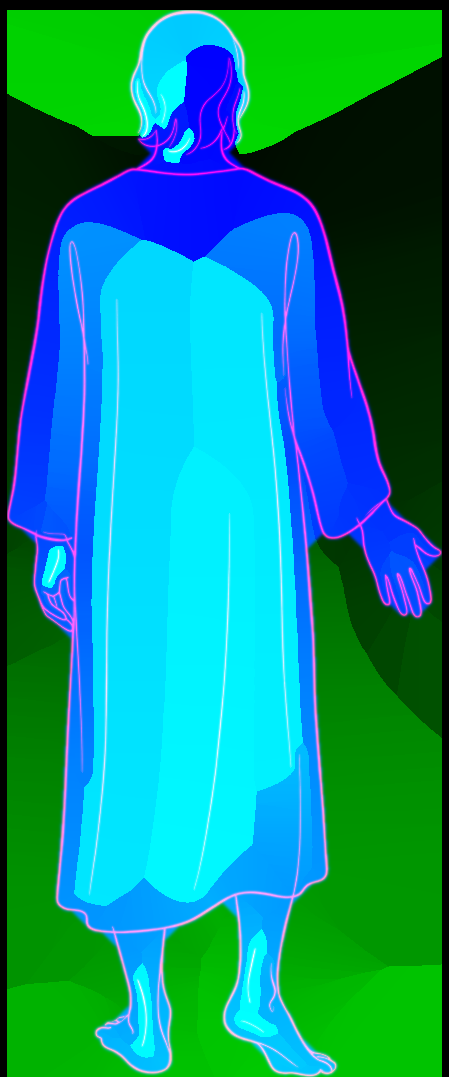
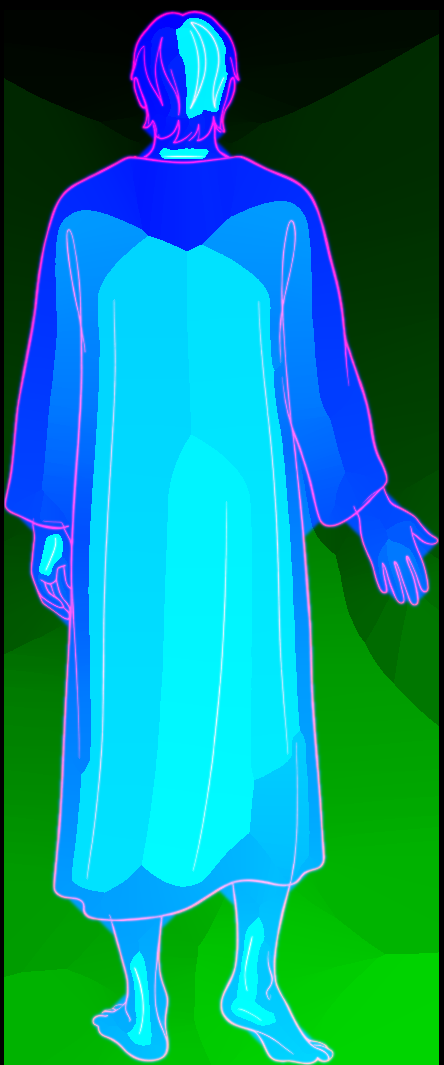
Recap walk: one consistent Jesus; Lesson 27 faces the viewer from far off
Same medium-length hair, build and plain robe, from behind with no face,
wherever he is seen near (L3, 9, 16, 19, 20, 22, 24, 25, 26, 28, 31). L27 has him
small at the top of the steps facing down at you, blank head, approved by Jason.

Claude-Session: https://claude.ai/code/session_01PUXW98g7GeRrNVaktcGhRj

diff --git a/tools/recap-video/places/l27.js b/tools/recap-video/places/l27.js
@@ -1,5 +1,5 @@
 // Lesson 27 (short stop, S = the trickle is a deliberate symbol): on the one day no water was poured, "If anyone is thirsty, come to me."
-// Temple steps. The great pitcher stands upright and nobody touches it, the whole hold. On the key a figure stands above you, hand open (from behind).
+// Temple steps. The great pitcher stands upright and nobody touches it, the whole hold. On the key a figure stands far off at the top, facing down at you, hand open, too small for any face (blank head).
 // Then a thin trickle starts at his feet and comes down the steps toward you. It does not come from the pitcher, which stays dry.
 export default async function (P) {
   await P.loadArt();
@@ -30,7 +30,7 @@ export default async function (P) {
   // the temple: the colonnade from Lesson 30, faint, standing along the top of the stair behind him
   const COLH = 1.3, colonnade = P.art('colonnade', CX, PZ - 0.04, COLH, { y0: TOP - 0.03, drawn: true, turn: false, fog: false, sil: 1, gain: 0.85, fadeNear: false });
   const CW = colonnade.wU, colBack = P.thing(CX, PZ - 0.06, CW * 0.97, COLH * 0.95, 20, c => { c.fillStyle = '#0c0a08'; c.fillRect(0, 0, c.canvas.width, c.canvas.height); }, { y0: TOP, turn: false, far: 26, near: 7 });   // so the far hills don't show through the columns
-  const FIGH = 1.52, figure = P.artAt('figure', CX + 0.02, PZ + 0.03, FIGH, key, 2, { y0: TOP - 0.04, turn: false, gain: 1.6, sil: 1, fadeNear: false });
+  const FIGH = 0.84, figure = P.artAt('figure', CX + 0.02, PZ + 0.03, FIGH, key, 2, { y0: TOP - 0.04, turn: false, gain: 1.6, sil: 1, fadeNear: false });
   // the trickle's course: starts just in front of his feet, eases right a little on each tread, drops straight down each riser; corners rounded so it reads as water, not a crack.
   const raw = [], END = 0.3, xAt = i => lerp(0.04, END, i / N) + 0.035 * Math.sin(i * 2.4); raw.push([xAt(0), TOP - 0.05]);
   ys.forEach((y, i) => { if (i === 0) return; const g = ys[i - 1] - y; raw.push([xAt(i - 1), ys[i - 1]], [xAt(i - 1), ys[i - 1] - g * RISE], [xAt(i), y]); }); raw.push([xAt(N - 1), ys[N - 1]], [xAt(N - 1), ys[N - 1] * (1 - RISE)], [END, 0.02]);
